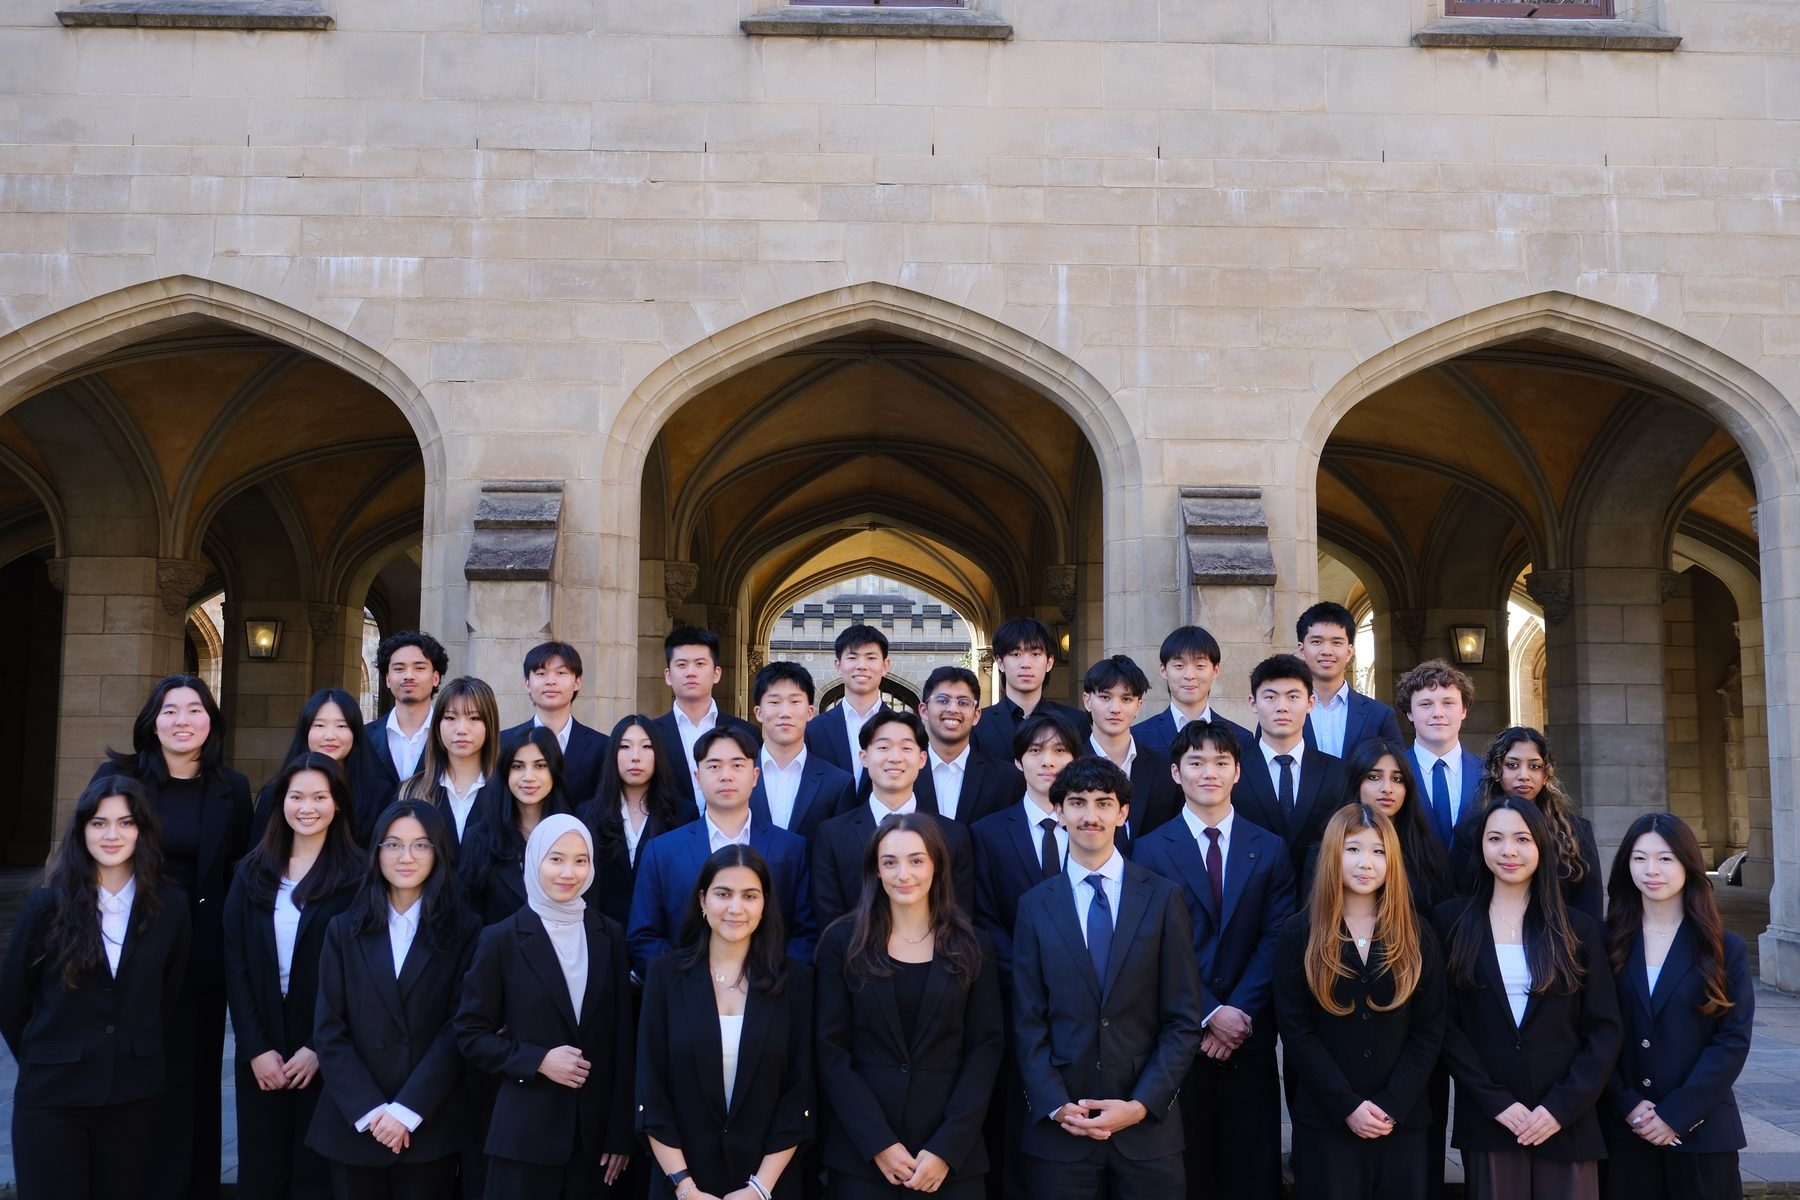
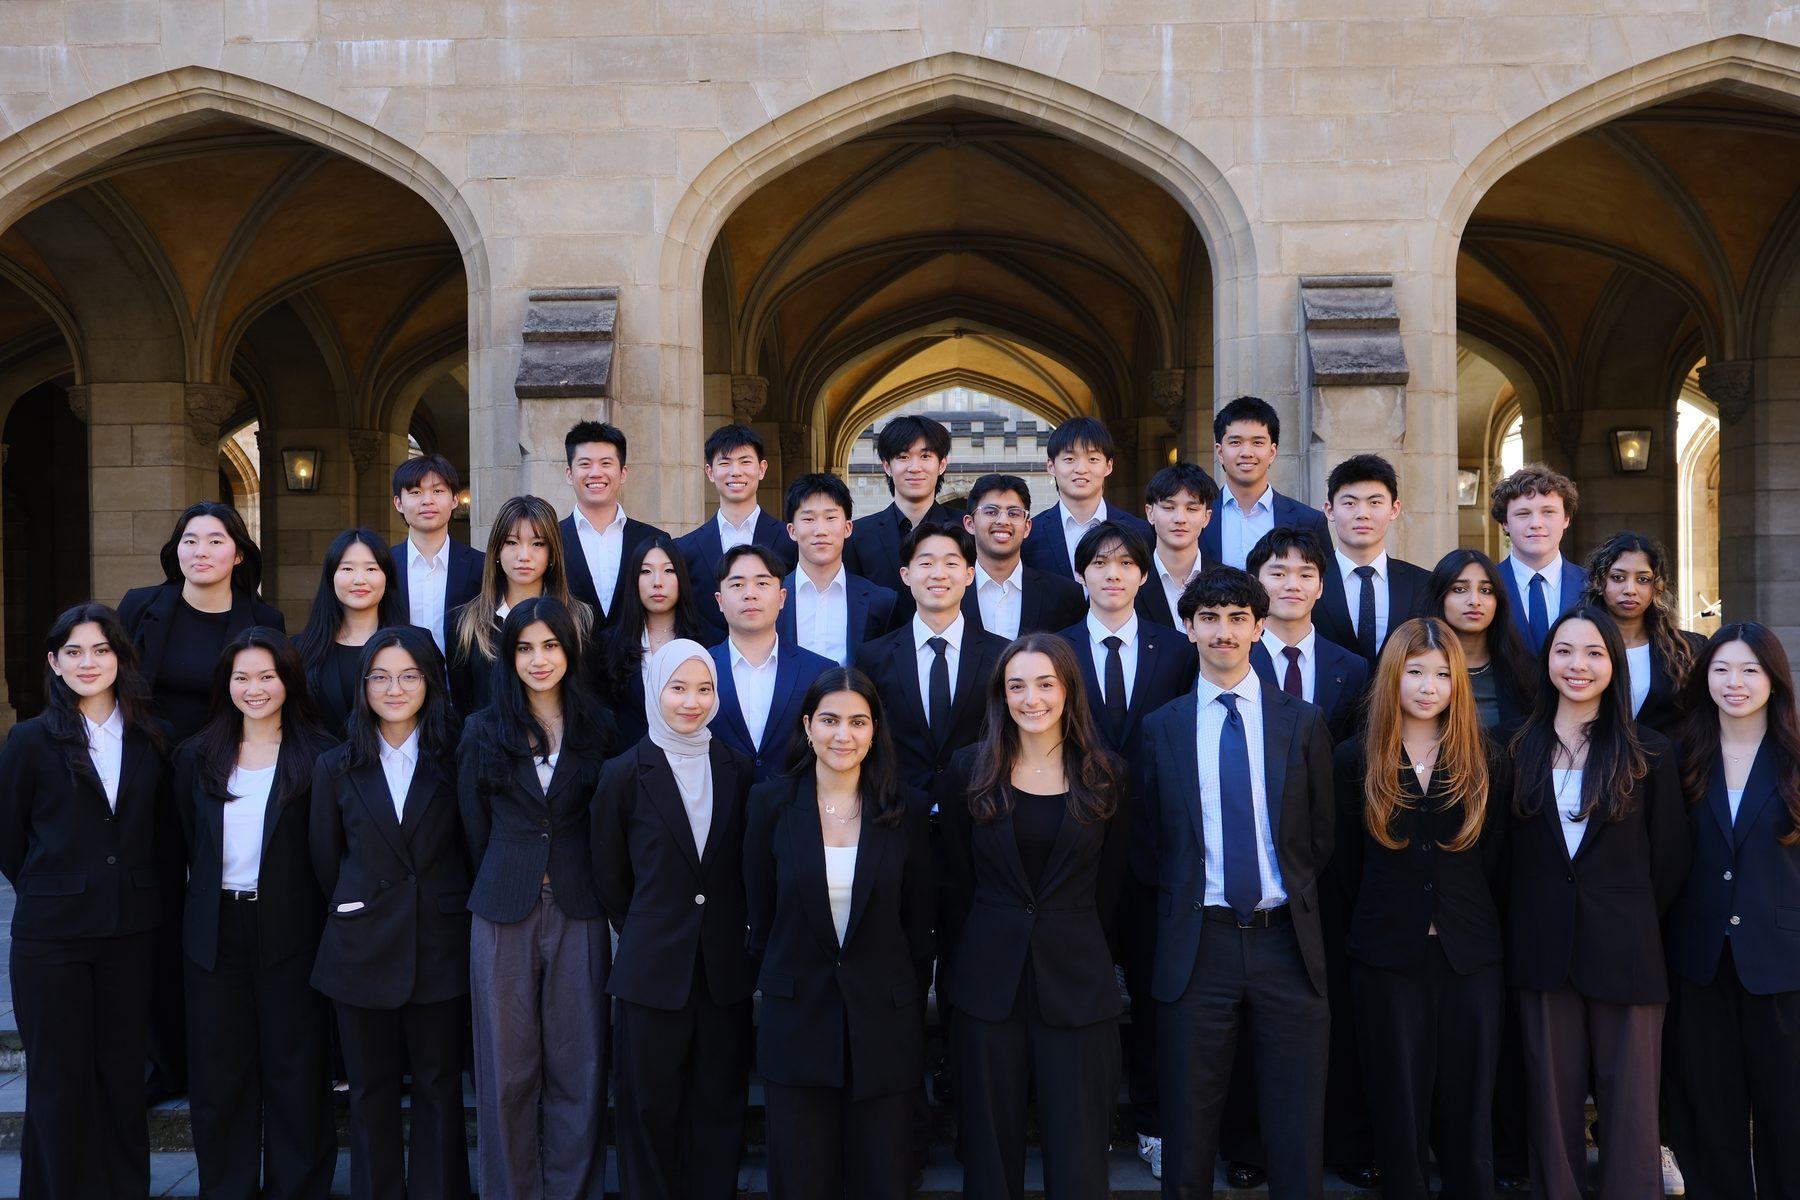
Update partner copy, swap committee photo, rename Events nav to What's on, refresh README

diff --git a/partners.html b/partners.html
@@ -23,7 +23,7 @@
         <ul class="nav-links">
           <li><a href="index.html">Home</a></li>
           <li><a href="about.html">About</a></li>
-          <li><a href="events.html">Events</a></li>
+          <li><a href="events.html">What's on</a></li>
           <li><a href="partners.html" aria-current="page">Partner with us</a></li>
           <li><a href="committee.html">Committee</a></li>
           <li><a class="nav-cta" href="https://umsu.unimelb.edu.au/buddy-up/clubs/clubs-listing/join/8055/" target="_blank" rel="noopener">Join now</a></li>
@@ -34,7 +34,7 @@
     <div class="container nav-mobile-panel">
       <a href="index.html">Home</a>
       <a href="about.html">About</a>
-      <a href="events.html">Events</a>
+      <a href="events.html">What's on</a>
       <a href="partners.html">Partner with us</a>
       <a href="committee.html">Committee</a>
       <a href="https://umsu.unimelb.edu.au/buddy-up/clubs/clubs-listing/join/8055/" target="_blank" rel="noopener"><strong>Join now →</strong></a>
@@ -56,7 +56,7 @@
               <h3 class="index-title">Hire entrepreneurial talent</h3>
             </div>
             <div class="index-body"><div>
-              <p>Our members join because they want to work at startups, not because it padded a mailing list. You reach students who already want an early-stage role, filtered for motivation before you spend a cent on recruiting.</p>
+              <p>Our members join to meet fellow builders, find co-founders, and connect directly with founders who have actually shipped. You reach students who already want an early-stage role, filtered for motivation before you spend a cent on recruiting.</p>
             </div></div>
           </div>
           <div class="index-row reveal">

diff --git a/index.html b/index.html
@@ -23,7 +23,7 @@
         <ul class="nav-links">
           <li><a href="index.html" aria-current="page">Home</a></li>
           <li><a href="about.html">About</a></li>
-          <li><a href="events.html">Events</a></li>
+          <li><a href="events.html">What's on</a></li>
           <li><a href="partners.html">Partner with us</a></li>
           <li><a href="committee.html">Committee</a></li>
           <li><a class="nav-cta" href="https://umsu.unimelb.edu.au/buddy-up/clubs/clubs-listing/join/8055/" target="_blank" rel="noopener">Join now</a></li>
@@ -34,7 +34,7 @@
     <div class="container nav-mobile-panel">
       <a href="index.html">Home</a>
       <a href="about.html">About</a>
-      <a href="events.html">Events</a>
+      <a href="events.html">What's on</a>
       <a href="partners.html">Partner with us</a>
       <a href="committee.html">Committee</a>
       <a href="https://umsu.unimelb.edu.au/buddy-up/clubs/clubs-listing/join/8055/" target="_blank" rel="noopener"><strong>Join now →</strong></a>
@@ -103,7 +103,7 @@
           <h4>Explore</h4>
           <ul>
             <li><a href="about.html">About</a></li>
-            <li><a href="events.html">Events</a></li>
+            <li><a href="events.html">What's on</a></li>
             <li><a href="partners.html">Partner with us</a></li>
             <li><a href="committee.html">Committee</a></li>
           </ul>

diff --git a/events.html b/events.html
@@ -23,7 +23,7 @@
         <ul class="nav-links">
           <li><a href="index.html">Home</a></li>
           <li><a href="about.html">About</a></li>
-          <li><a href="events.html" aria-current="page">Events</a></li>
+          <li><a href="events.html" aria-current="page">What's on</a></li>
           <li><a href="partners.html">Partner with us</a></li>
           <li><a href="committee.html">Committee</a></li>
           <li><a class="nav-cta" href="https://umsu.unimelb.edu.au/buddy-up/clubs/clubs-listing/join/8055/" target="_blank" rel="noopener">Join now</a></li>
@@ -34,7 +34,7 @@
     <div class="container nav-mobile-panel">
       <a href="index.html">Home</a>
       <a href="about.html">About</a>
-      <a href="events.html">Events</a>
+      <a href="events.html">What's on</a>
       <a href="partners.html">Partner with us</a>
       <a href="committee.html">Committee</a>
       <a href="https://umsu.unimelb.edu.au/buddy-up/clubs/clubs-listing/join/8055/" target="_blank" rel="noopener"><strong>Join now →</strong></a>

diff --git a/about.html b/about.html
@@ -23,7 +23,7 @@
         <ul class="nav-links">
           <li><a href="index.html">Home</a></li>
           <li><a href="about.html" aria-current="page">About</a></li>
-          <li><a href="events.html">Events</a></li>
+          <li><a href="events.html">What's on</a></li>
           <li><a href="partners.html">Partner with us</a></li>
           <li><a href="committee.html">Committee</a></li>
           <li><a class="nav-cta" href="https://umsu.unimelb.edu.au/buddy-up/clubs/clubs-listing/join/8055/" target="_blank" rel="noopener">Join now</a></li>
@@ -34,7 +34,7 @@
     <div class="container nav-mobile-panel">
       <a href="index.html">Home</a>
       <a href="about.html">About</a>
-      <a href="events.html">Events</a>
+      <a href="events.html">What's on</a>
       <a href="partners.html">Partner with us</a>
       <a href="committee.html">Committee</a>
       <a href="https://umsu.unimelb.edu.au/buddy-up/clubs/clubs-listing/join/8055/" target="_blank" rel="noopener"><strong>Join now →</strong></a>

diff --git a/committee.html b/committee.html
@@ -23,7 +23,7 @@
         <ul class="nav-links">
           <li><a href="index.html">Home</a></li>
           <li><a href="about.html">About</a></li>
-          <li><a href="events.html">Events</a></li>
+          <li><a href="events.html">What's on</a></li>
           <li><a href="partners.html">Partner with us</a></li>
           <li><a href="committee.html" aria-current="page">Committee</a></li>
           <li><a class="nav-cta" href="https://umsu.unimelb.edu.au/buddy-up/clubs/clubs-listing/join/8055/" target="_blank" rel="noopener">Join now</a></li>
@@ -34,7 +34,7 @@
     <div class="container nav-mobile-panel">
       <a href="index.html">Home</a>
       <a href="about.html">About</a>
-      <a href="events.html">Events</a>
+      <a href="events.html">What's on</a>
       <a href="partners.html">Partner with us</a>
       <a href="committee.html">Committee</a>
       <a href="https://umsu.unimelb.edu.au/buddy-up/clubs/clubs-listing/join/8055/" target="_blank" rel="noopener"><strong>Join now →</strong></a>

diff --git a/join.html b/join.html
@@ -23,7 +23,7 @@
         <ul class="nav-links">
           <li><a href="index.html">Home</a></li>
           <li><a href="about.html">About</a></li>
-          <li><a href="events.html">Events</a></li>
+          <li><a href="events.html">What's on</a></li>
           <li><a href="partners.html">Partner with us</a></li>
           <li><a href="committee.html">Committee</a></li>
           <li><a class="nav-cta" href="https://umsu.unimelb.edu.au/buddy-up/clubs/clubs-listing/join/8055/" target="_blank" rel="noopener">Join now</a></li>
@@ -34,7 +34,7 @@
     <div class="container nav-mobile-panel">
       <a href="index.html">Home</a>
       <a href="about.html">About</a>
-      <a href="events.html">Events</a>
+      <a href="events.html">What's on</a>
       <a href="partners.html">Partner with us</a>
       <a href="committee.html">Committee</a>
       <a href="https://umsu.unimelb.edu.au/buddy-up/clubs/clubs-listing/join/8055/" target="_blank" rel="noopener"><strong>Join now →</strong></a>

diff --git a/README.md b/README.md
@@ -1,16 +1,15 @@
-# StartUp Link UniMelb — website prototype
+# StartUp Link UniMelb — website
 
-Status: **coded prototype**, not the recommended final build. See "Why this isn't the final platform" below before treating this as done.
+A dependency-free static site (plain HTML/CSS/JS, no build step, no Node/npm required) for the University of Melbourne chapter of StartUp Link Australia. Recruitment-first: the job is connecting students to the startup ecosystem.
 
-## What this is
+## Pages
 
-A dependency-free static site (plain HTML/CSS/JS, no build step, no Node/npm required) implementing the P0 flows from the PRD so the club can click through the real UX before committing to a platform:
-
-- `index.html` — homepage (P0.1)
-- `events.html` — Instagram section (`@startuplinkunimelb`); events/deadlines are posted there
-- `join.html` — membership signup (P0.3), no longer linked in nav ("Join now" goes to UMSU)
-- `partners.html` — tiered past partners (P0.4)
-- `committee.html` — exec roster by two-year term (P1.2)
+- `index.html` — homepage: hero, moving blue background, and a "Past Partners" logo strip
+- `about.html` — what the club does (bridge to opportunities, entrepreneurial skills, the Melbourne network) plus headline stats
+- `events.html` — full-page Instagram embed (`@startuplinkunimelb`); events and deadlines are posted there
+- `partners.html` — "Partner with us": a prospective-partner pitch (hire entrepreneurial talent, meet members, build a pipeline) with a "Get in touch" CTA
+- `committee.html` — the committee: group-photo banner, roster by two-year term, and a Committee Portal button
+- `join.html` — legacy membership signup form; no longer linked in nav ("Join now" goes to UMSU)
 
 ## Running it
 
@@ -19,43 +18,36 @@ No install needed. Either:
 - Open `index.html` directly in a browser, or
 - From this folder, run `python3 -m http.server 8000` and visit `http://localhost:8000`
 
-## Editing content (until a real CMS is chosen)
+## Editing content
 
-Partners and committee data live in `content/*.js` as plain JS arrays (not `.json`, so the browser can load them via a `<script>` tag with no server-side fetch/CORS issues when opened as a local file). Each file has a comment explaining its fields. To edit:
+- **Past partner logos** live in `content/partners.js` (name, `logo` path, `url`, and optional `mono: true` for solid-black wordmarks so they stay white on the dark background). Logo files sit in `assets/img/` and should be trimmed, transparent-background PNGs/SVGs.
+- **Committee** data lives in `content/committee.js` as plain JS arrays. Copy an existing entry, change the values, give it a unique `id`, save, refresh.
 
-1. Open the relevant file in `content/`
-2. Copy an existing entry, change the values, give it a unique `id`
-3. Save and refresh the page
+These files load via `<script>` tags (not `.json`) so the site works even when opened as a local file. Editing is copy-paste-and-fill-in-blanks but still requires respecting JS syntax (commas, quotes).
 
-This is editable by a non-technical person in the sense that it's copy-paste-and-fill-in-blanks, but it still requires opening a code editor and respecting JS syntax (commas, quotes). It does **not** satisfy P0.5 ("no code, no deploy step they must understand") on its own — see below.
+## Motion / interaction
 
-## Why this isn't the final platform
+All motion is disabled automatically for visitors with "reduce motion" set, and pointer-driven effects only run on fine-pointer (non-touch) devices:
 
-The PRD's own recommendation is to build on a no-code platform (Framer, Webflow, or a structured Notion/Super site), not custom code — because the exec turns over every year and P0.5 requires zero-developer-involvement editing. This prototype exists to:
+- Spring-magnetic primary buttons, hover sheen sweep, and a shimmering hero accent word
+- 3D tilt + pointer glare on the committee cards
+- Blur-in scroll reveals, count-up stats, custom cursor, scroll-progress bar
+- Mask-reveal hero headline, scroll-velocity kinetic ribbons, cursor spotlights, moving background orbs
+- Stepped logo carousel on the "Past Partners" strip (rotates when there are more logos than fit)
 
-1. Let the club validate the actual flows (signup, partner tiers, Instagram feed) before picking a platform.
-2. Serve as a content/IA reference for whoever builds the real version in Framer/Webflow/etc.
-3. Be a working fallback if the no-code route stalls and a static site + a git-based CMS (e.g. Decap CMS) ends up being the pragmatic choice for a zero-budget club.
+## Brand
 
-Before this goes live as the actual site, the PRD's blocking open questions still need answers:
+Colour tokens are in `assets/css/style.css` (`:root` variables): ice-blue accent `#C5E4EC`, near-black background stepping to royal blue. Contact email is `info@startuplinkunimelb.net`. All "Join now" buttons point to the club's UMSU join page (https://umsu.unimelb.edu.au/buddy-up/clubs/clubs-listing/join/8055/), so UMSU is the membership datastore.
 
-- Standalone vs. chapter page under StartUp Link Australia
-- Where membership data should really live (this prototype just opens a pre-filled email — see `join.html`)
-- Domain control for `startuplinkunimelb.net`
-- Platform budget and account ownership across handovers
-- Whether any partner agreement requires click-tracking reporting (P1.4 → P0 if so)
+## To confirm before/after launch
 
-## Known gaps vs. the PRD
-
-- **P0.3 (signup)**: submits via a `mailto:` link, not a real datastore. Functional today, but not what should ship.
-- **P1.3 (automated reminders)**, **P1.4 (partner click tracking)**: not implemented — need a backend/analytics, out of scope for a static site.
-- **Partner/committee photos**: no real images yet — cards fall back to initials badges. When real logos/photos are supplied, add `<img>` tags with real `alt` text (accessibility floor in the PRD).
-- **Brand**: colours in `assets/css/style.css` (`:root` variables) are placeholders (white / dark-blue / black theme). Swap the accent tokens once the club's logo/colour assets are supplied.
-- **Homepage stats are placeholders**: the count-up numbers (300+ members, 25+ partners, 40+ events, 8 branches) in `index.html` are made up — replace with real figures before launch or they're misleading.
-- **"Join now" goes to UMSU**: all Join buttons point to the club's UMSU join page (https://umsu.unimelb.edu.au/buddy-up/clubs/clubs-listing/join/8055/), so UMSU is the membership datastore. The old on-site signup form still exists at `join.html` but is no longer linked in the nav — keep it or delete it.
-- **Dynamic features**: custom white-dot cursor, scroll-progress bar, mask-reveal hero headline, scroll-velocity kinetic type ribbons, an interactive index list, cursor spotlights, magnetic buttons, count-up stats, live Melbourne clock, film-grain/grid texture, and the scrolling partner marquee. All are disabled automatically for visitors with "reduce motion" set, and the cursor only activates on fine-pointer (non-touch) devices.
+- **E-LEAD partner URL** is a placeholder (`#`) in `content/partners.js` — add the real link. (Archa → archa.com.au and Zeller → myzeller.com were best-guess URLs; double-check.)
+- **Stats** on `about.html` and `partners.html` (700+ members in 2025, 45+ committee, 10+ events a year, 4 branches) — confirm the figures.
+- **Committee Portal** button on `committee.html` links to `#` — point it at the real portal.
+- **Instagram link** in the homepage footer is `#` — add the real profile URL.
+- **`join.html`** still exists but is unlinked; keep or delete it depending on whether UMSU fully covers signup.
 
 ## Verified
 
-- All 5 pages served correctly via local HTTP server (200 OK), including all CSS/JS assets.
-- Not yet checked in an actual browser (no browser automation tool available in this environment) — recommend opening `index.html` locally and clicking through before sharing further, especially the RSVP/add-to-calendar/signup interactions and the mobile layout at 375px width.
+- All pages served correctly via local HTTP server (200 OK), including CSS/JS and image assets.
+- Not yet checked in an actual browser here (no browser automation in this environment) — recommend opening `index.html` locally and clicking through, especially the mobile layout at 375px width and the hover/motion effects.
